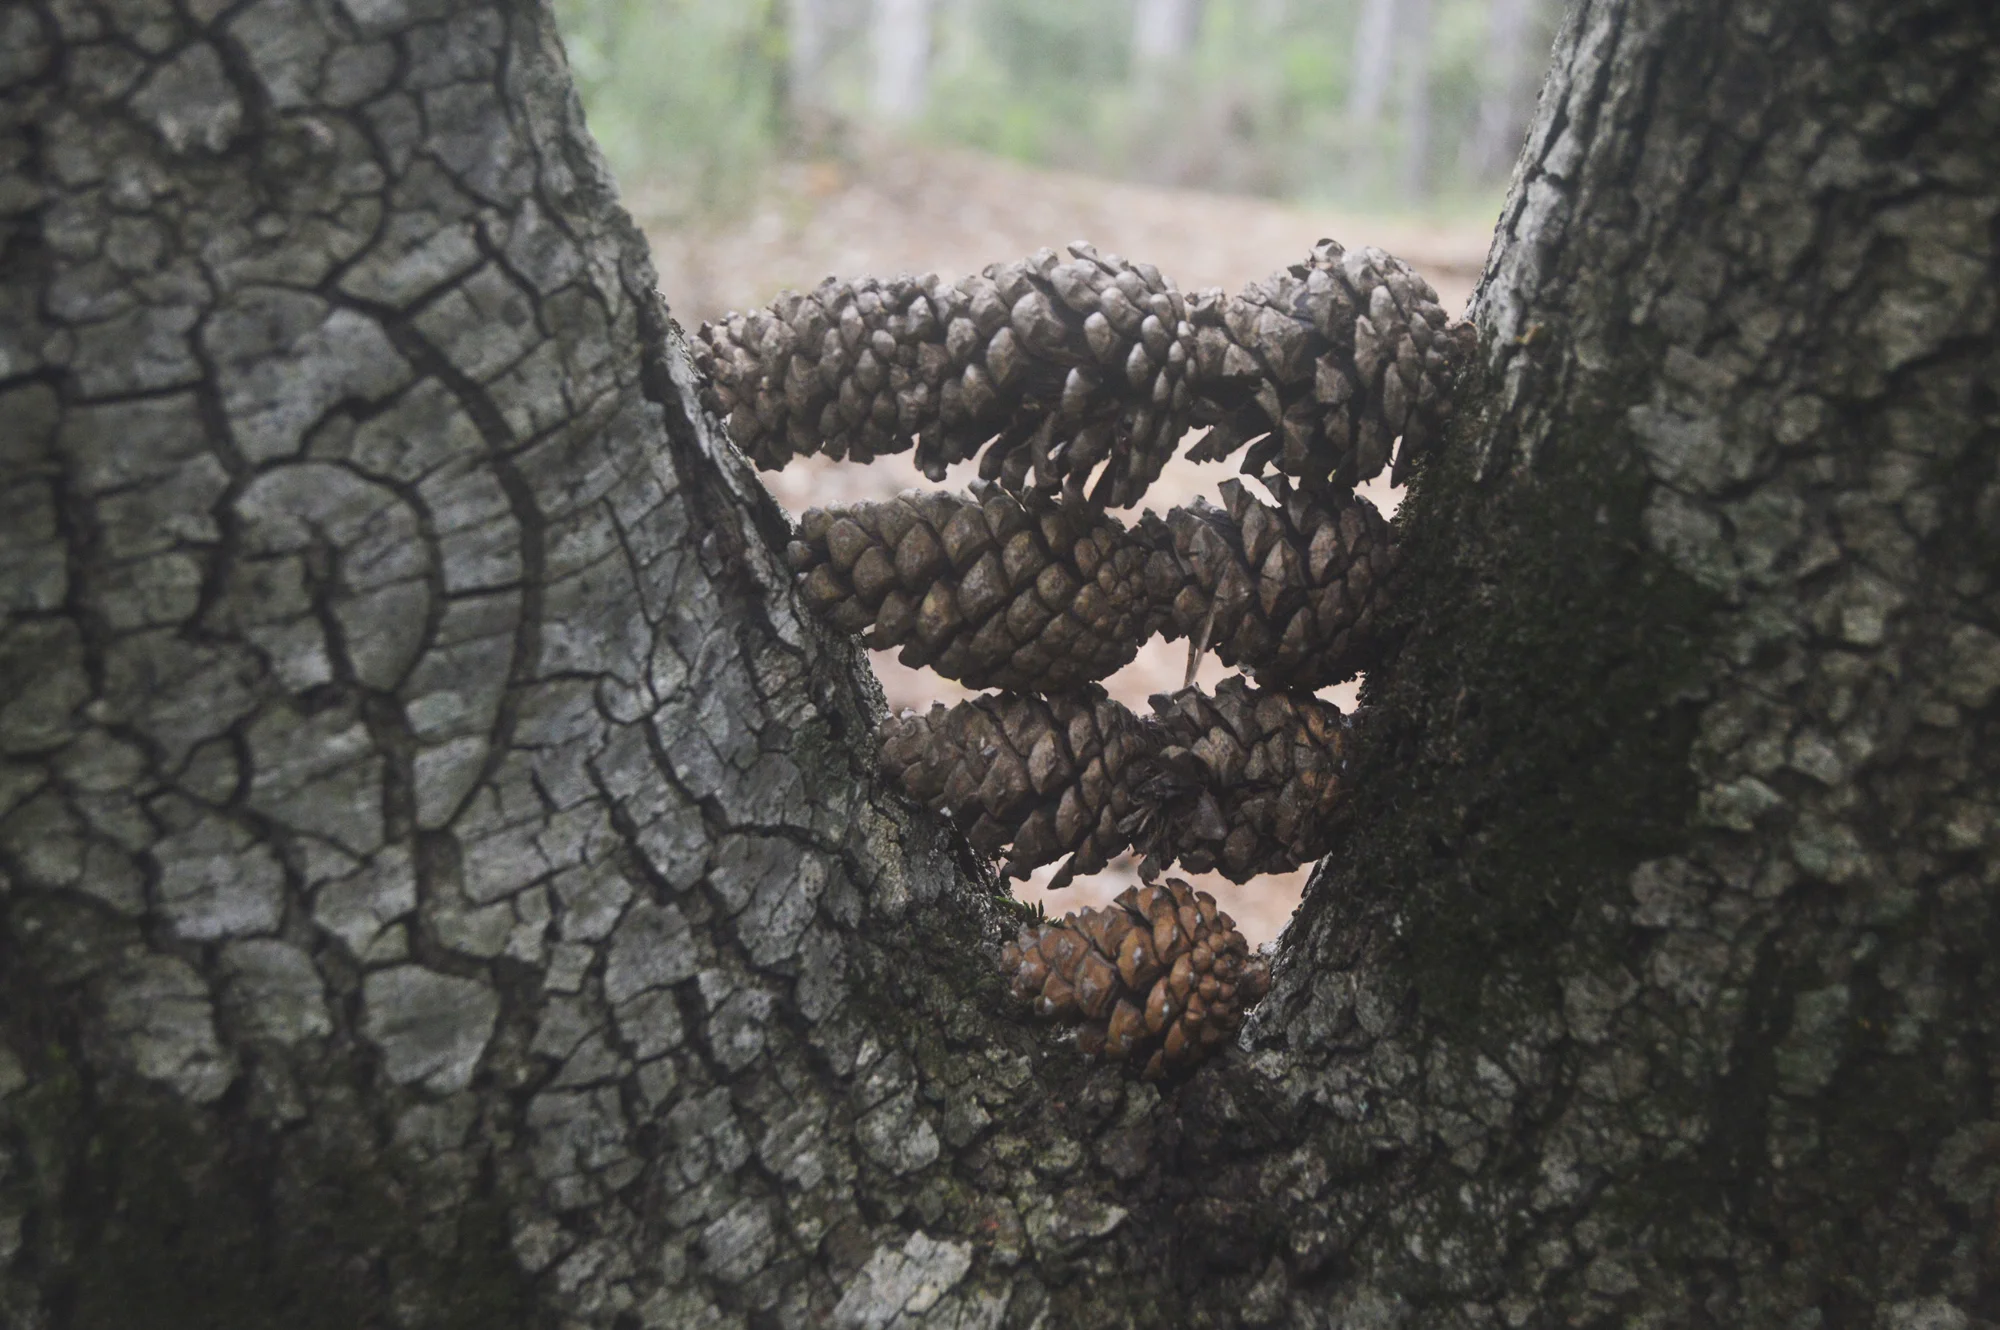
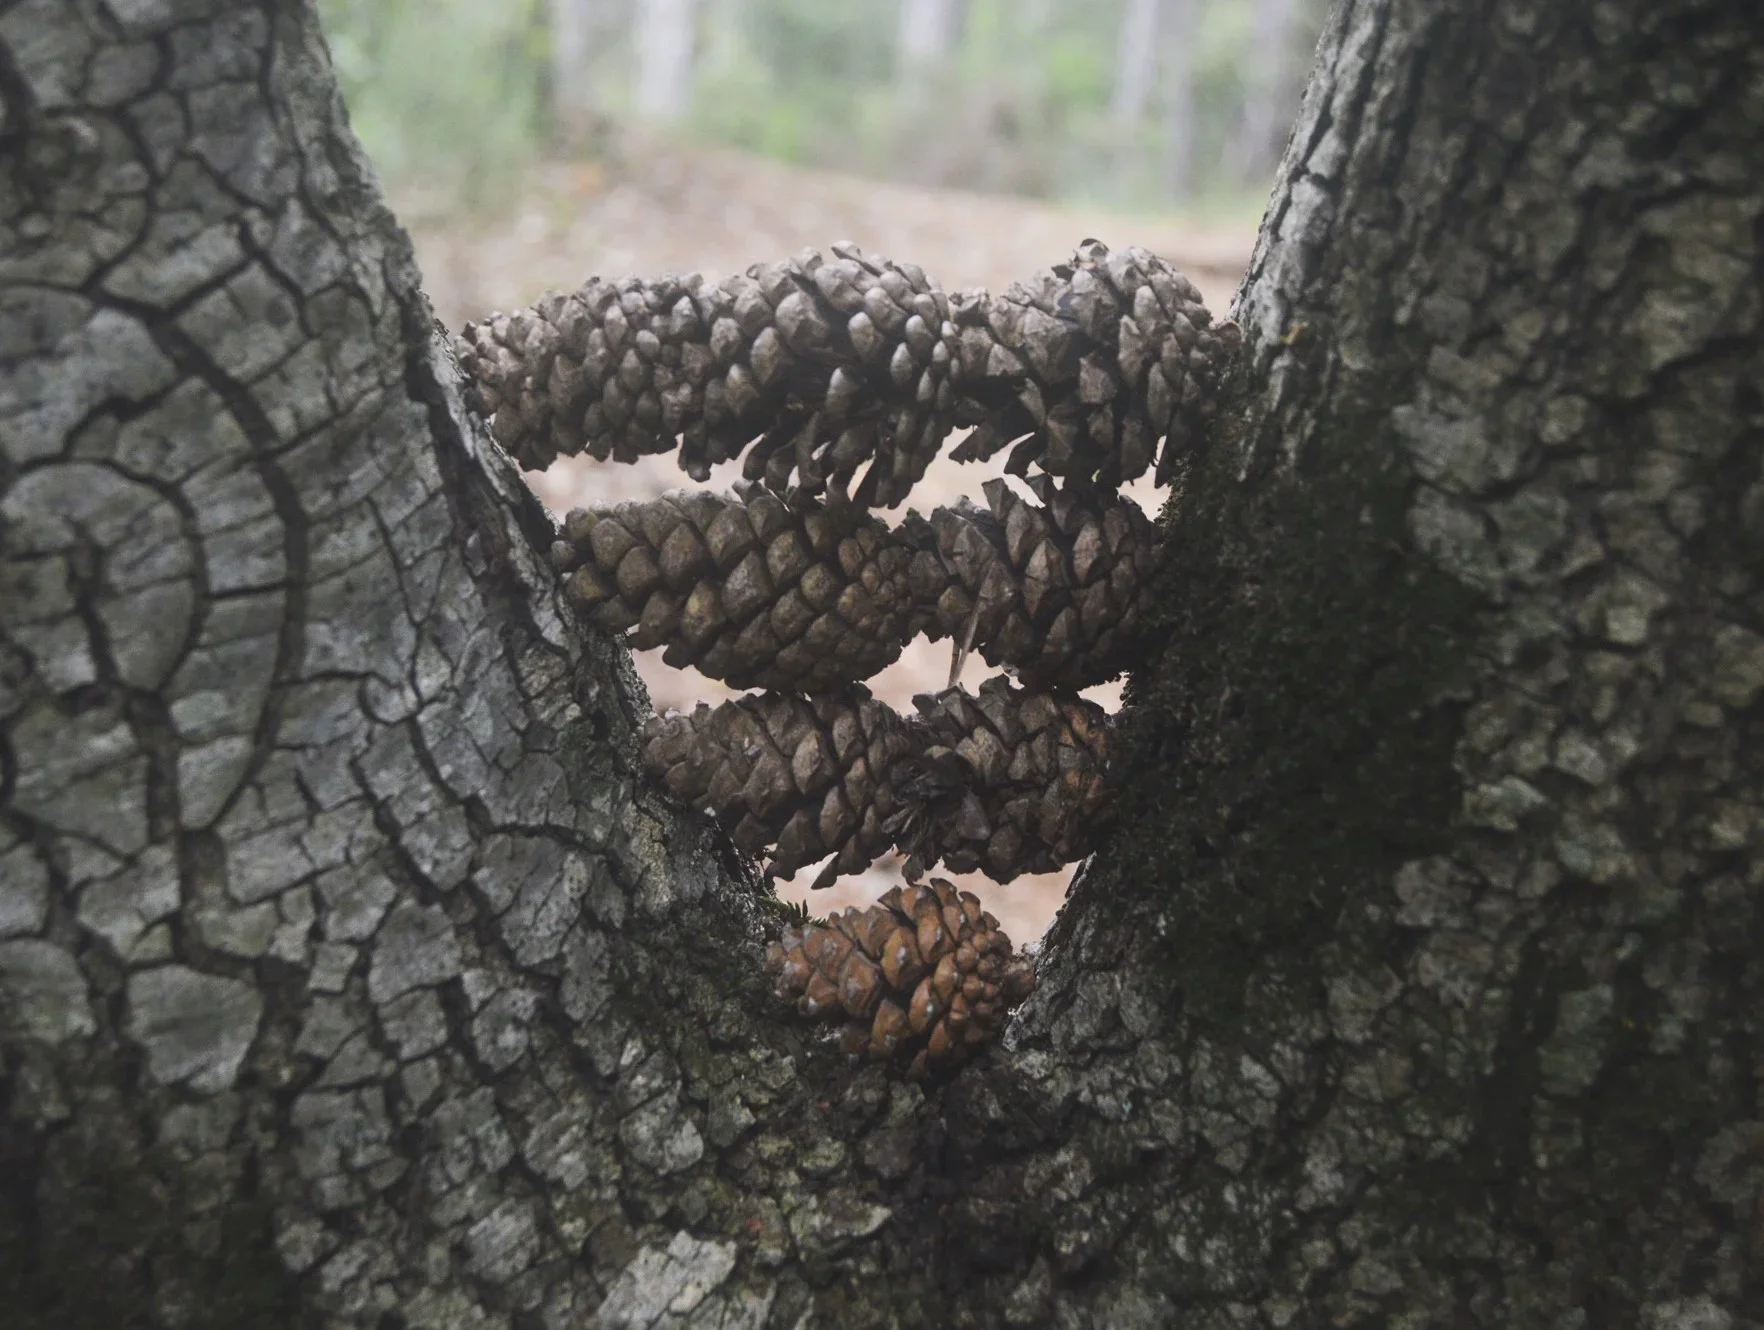
ultimes fotos distancia

diff --git a/distancia.html b/distancia.html
@@ -11,38 +11,45 @@
     <div class="columna-texto">
         <h2><a href="index.html">Paula Vicente Puiggròs</a></h2>
         <input type="checkbox" id="toggle-menu" class="menu-check">
-        <label for="toggle-menu" class="menu-boto">Projectes</label>
-        <p>Estratègies per escoltar un remolí</p>
-        <p>Un ressò de bosc</p>
+        <label for="toggle-menu" class="menu-boto">Projectes</label> 
+        <p><a href="estrategies.html">Estratègies per escoltar un remolí</a></p>
+        <p><a href="joc.html">El llenguatje del joc</a></p>
+        <p><a href="resso.html">Un ressò de bosc</a></p>
         <p><a href="distancia.html">Una distància</a></p>
-        <p>Arxivar el gest</p>
-        <p>Fer aigües</p>
-        <p>Mientras crecen las calabazas</p>
-        <p>Totes les llavors de dins l'armari</p>
-        <p>Derives multiespècie</p>
-        <p>El que no és muntanya</p>
-        <p>Tu, jo, fotons, electrons</p>
-        <p>Cartes a una nimfa</p>
-        <p>Ecologies de lo comú</p>
-        <p>Tocar-se a mig camí</p>
-        <p>Embroglio</p>
-        <p>MAP#128 Intra-action</p>
-        <p>67 pomeres i altres maneres de viure i morir</p>
-        <p>Sintonitzacions</p>
+        <p><a href="gest.html">Arxivar el gest</a></p>
+        <p><a href="aigües.html">Fer aigües</a></p>
+        <p><a href="cartografiar.html">Cartografiar lo invisible</a></p>
+        <p><a href="calabazas.html">Mientras crecen las calabazas</a></p>
+        <p><a href="llavors.html">Totes les llavors de dins l'armari</a></p>
+        <p><a href="derives.html">Derives multiespècie</a></p>
+        <p><a href="muntanya.html">El que no és muntanya</a></p>
+        <p><a href="Tu,jo,fotons,electrons.html">Tu, jo, fotons, electrons</a></p>
+        <p><a href="paisatje.html">Esdevenir paisatje</a></p>
+        <p><a href="nimfa.html">Cartes a una nimfa</a></p>
+        <p><a href="ecologies.html">Ecologies de lo comú</a></p>
+        <p><a href="migcami.html">Tocar-se a mig camí</a></p>
+        <p><a href="embroglio.html">Embroglio</a></p>
+        <p><a href="time-capsule.html">Time capsule</a></p>
+        <p><a href="map128.html">MAP#128 Intra-action</a></p>
+        <p><a href="67pomeres.html">67 pomeres i altres maneres de viure i morir</a></p>
+        <p><a href="sintonitzacions.html">Sintonitzacions</a></p>
+        <p><a href="kidevo.html">Kidevo</a></p>
+        <p><a href="bauen.html">Bauen</a></p>
+        <p><a href="construccio.html">Construcció</a></p>
     </div>
     <div class="columnas">
         <img src="distancia/23.webp" alt="tronc arbre">
         <img src="distancia/24.webp" alt="tronc arbre">
         <img src="distancia/9.webp" alt="pals">
-        <img src="distancia/8.webp" alt="pals"
+        <img src="distancia/8.webp" alt="pals">
         <img src="distancia/18.webp" alt="pinyes">
         <img src="distancia/11.webp" alt="pinyes">
         <img src="distancia/23.webp" alt="tronc arbre">
         <img src="distancia/24.webp" alt="tronc arbre">
         <img src="distancia/4.webp"  alt="pedres">       
-        <img src="distancia/1(1).webp"alt="pinyes">
+        <img src="distancia/28.webp"alt="pinyes">
         <img src="distancia/30.webp" alt="pinyes">
-        <img src="distancia/10.webp"  alt="pedres">
+        <img src="distancia/34.webp"  alt="pedres">
     
 
      
